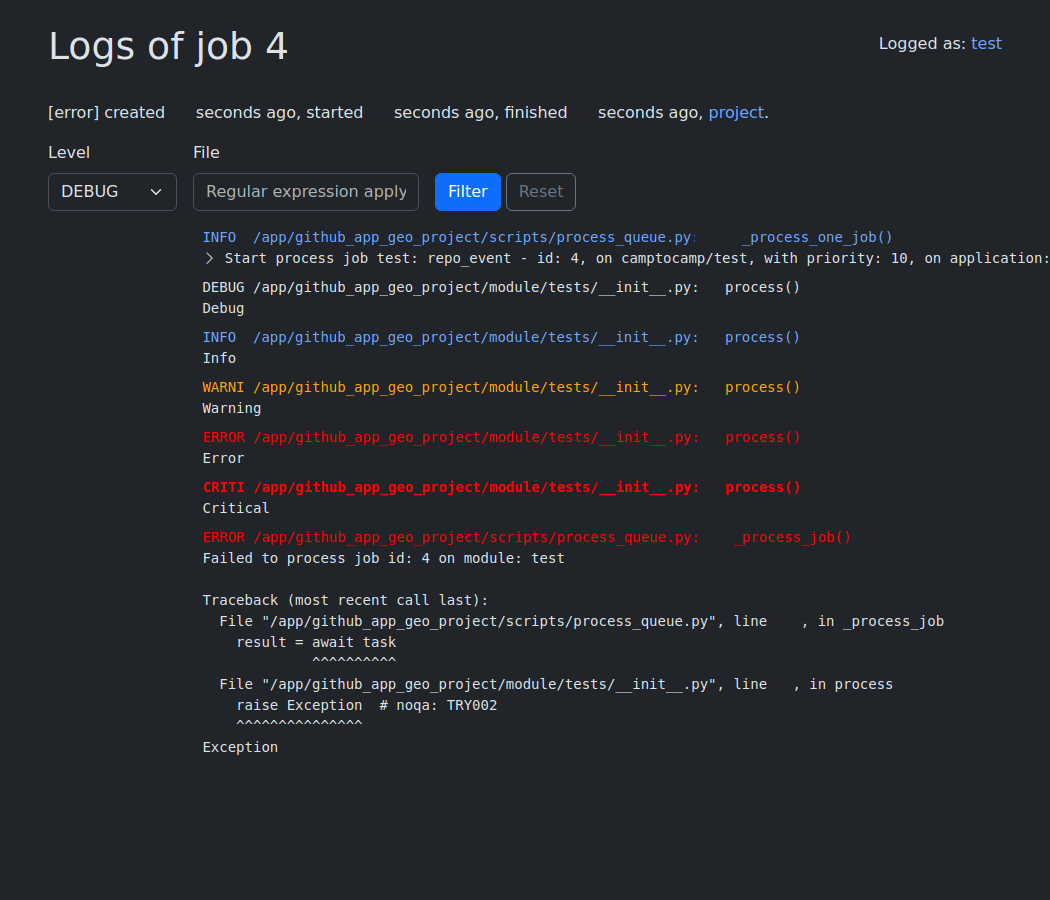
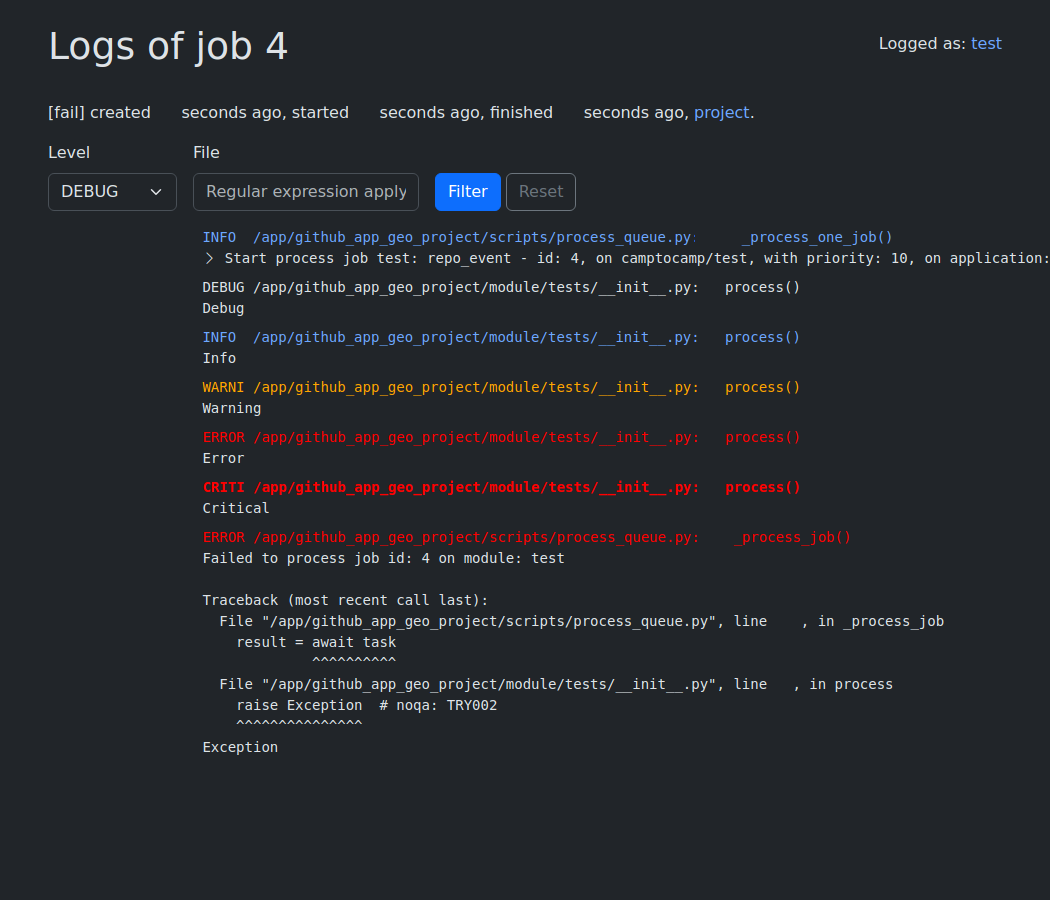
Add REPORT_ERROR and FAIL job statuses to differentiate check errors from job errors
Replace the single ERROR status with two distinct statuses:
- REPORT_ERROR for jobs that are checks reporting intentional failure
- FAIL for actual job/system failures

Add report_error flag to ProcessOutput so modules can indicate when
success=False is a check report rather than a real failure.

Changed region(s): [[0.3657, 0.0933, 0.7314, 0.1556], [0.1829, 0.0933, 0.3352, 0.1556], [0.061, 0.0933, 0.1524, 0.1556]]

diff --git a/github_app_geo_project/templates/jobs.html b/github_app_geo_project/templates/jobs.html
@@ -36,6 +36,9 @@ div.alert-secondary a[data-bs-toggle="tooltip"] {
 div.alert-warning a[data-bs-toggle="tooltip"] {
   color: var(--bs-warning-text-emphasis);
 }
+div.alert-warning a[data-bs-toggle="tooltip"] {
+  color: var(--bs-warning-text-emphasis);
+}
 div.alert-danger a[data-bs-toggle="tooltip"] {
   color: var(--bs-danger-text-emphasis);
 }
@@ -66,7 +69,9 @@ div.alert-danger a[data-bs-toggle="tooltip"] {
       <option value="">All</option>
       <option value="NEW" {% if status == 'NEW' %}selected{% endif %}>New</option>
       <option value="PENDING" {% if status == 'PENDING' %}selected{% endif %}>Pending</option>
-      <option value="ERROR" {% if status == 'ERROR' %}selected{% endif %}>Error</option>
+      <option value="REPORT_ERROR" {% if status == 'REPORT_ERROR' %}selected{% endif %}>Report Error</option>
+      <option value="FAIL" {% if status == 'FAIL' %}selected{% endif %}>Fail</option>
+      <option value="ERROR" {% if status == 'ERROR' %}selected{% endif %}>Error (legacy)</option>
       <option value="DONE" {% if status == 'DONE' %}selected{% endif %}>Done</option>
       <option value="SKIPPED" {% if status == 'SKIPPED' %}selected{% endif %}>Skipped</option>
     </select>
@@ -89,7 +94,9 @@ div.alert-danger a[data-bs-toggle="tooltip"] {
 </form>
 
 {% for job in jobs %}
-  {% if job.status_enum.value == 'error' %}
+  {% if job.status_enum.value == 'report_error' %}
+<div class="alert alert-warning event" role="alert">
+  {% elif job.status_enum.value in ['error', 'fail'] %}
 <div class="alert alert-danger event" role="alert">
   {% else %}
     {% if job.status_enum.value in ['new', 'pending'] %}

diff --git a/github_app_geo_project/scripts/process_queue.py b/github_app_geo_project/scripts/process_queue.py
@@ -539,7 +539,7 @@ async def _process_job(
                     )
 
             job.status_enum = (
-                models.JobStatus.DONE if result is None or result.success else models.JobStatus.ERROR
+                models.JobStatus.DONE if result is None or result.success else models.JobStatus.REPORT_ERROR
             )
             job.finished_at = datetime.datetime.now(tz=datetime.UTC)
 
@@ -581,7 +581,7 @@ async def _process_job(
             new_issue_data = result.dashboard if result is not None else None
             _LOGGER.debug("Job queue updated")
         except githubkit.exception.RequestFailed as exception:
-            job.status_enum = models.JobStatus.ERROR
+            job.status_enum = models.JobStatus.FAIL
             job.finished_at = datetime.datetime.now(tz=datetime.UTC)
             root_logger.addHandler(handler)
             try:
@@ -632,7 +632,7 @@ async def _process_job(
                         root_logger.removeHandler(handler)
                 raise
         except (subprocess.CalledProcessError, subprocess.TimeoutExpired) as proc_error:
-            job.status_enum = models.JobStatus.ERROR
+            job.status_enum = models.JobStatus.FAIL
             job.finished_at = datetime.datetime.now(tz=datetime.UTC)
 
             message = module_utils.AnsiProcessMessage(
@@ -675,7 +675,7 @@ async def _process_job(
                     )
             raise
         except Exception as exception:
-            job.status_enum = models.JobStatus.ERROR
+            job.status_enum = models.JobStatus.FAIL
             job.finished_at = datetime.datetime.now(tz=datetime.UTC)
             if not isinstance(exception, GHCIError):
                 root_logger.addHandler(handler)
@@ -995,7 +995,7 @@ async def _get_process_one_job(
                     models.Queue.status == models.JobStatus.PENDING.name,
                     models.Queue.started_at < error_threshold,
                 )
-                .values(status=models.JobStatus.ERROR.name),
+                .values(status=models.JobStatus.FAIL.name),
             )
             affected_rows = result.rowcount  # type: ignore[attr-defined]
             if affected_rows:
@@ -1120,11 +1120,11 @@ async def _process_one_job(
                     )
                     job.status_enum = models.JobStatus.DONE
                 else:
-                    job.status_enum = models.JobStatus.ERROR
+                    job.status_enum = models.JobStatus.FAIL
                 job.finished_at = datetime.datetime.now(tz=datetime.UTC)
             else:
                 _LOGGER.error("Unknown event name: %s", job.module_event_name)
-                job.status_enum = models.JobStatus.ERROR
+                job.status_enum = models.JobStatus.FAIL
                 job.finished_at = datetime.datetime.now(tz=datetime.UTC)
                 success = False
         else:
@@ -1155,7 +1155,7 @@ async def _process_one_job(
         await _flush_job_logs(log_session_factory, handler, job.id)
         if await session.run_sync(lambda _: job.status_enum == models.JobStatus.PENDING):
             _LOGGER.error("Job %s finished with pending status", job.id)
-            job.status_enum = models.JobStatus.ERROR
+            job.status_enum = models.JobStatus.FAIL
         job.finished_at = datetime.datetime.now(tz=datetime.UTC)
         _RUNNING_JOBS.pop(job.id)
         await session.commit()

diff --git a/github_app_geo_project/module/patch/__init__.py b/github_app_geo_project/module/patch/__init__.py
@@ -225,10 +225,8 @@ class Patch(module.Module[dict[str, Any], dict[str, Any], dict[str, Any], Any]):
                 else False
             )
         else:
-            return module.ProcessOutput(
-                success=False,
-                check_output={"summary": f"Invalid event '{context.module_event_name}' for the Patch module"},
-            )
+            error_message = f"Invalid event '{context.module_event_name}' for the Patch module"
+            raise PatchError(error_message)
 
         if head_branch is None:
             _LOGGER.error("workflow event head_branch is None; cannot apply patch.")
@@ -342,12 +340,8 @@ class Patch(module.Module[dict[str, Any], dict[str, Any], dict[str, Any], Any]):
                     if proc.returncode != 0:
                         message.title = "Failed to push the changes"
                         _LOGGER.warning(message)
-                        return module.ProcessOutput(
-                            success=False,
-                            check_output={
-                                "summary": f"Failed to push the changes{format_process_bytes(stdout, stderr)}",
-                            },
-                        )
+                        error_message = f"Failed to push the changes{format_process_bytes(stdout, stderr)}"
+                        raise PatchError(error_message)
                     message.title = "Pushed the changes"
                     _LOGGER.debug(message)
         else:

diff --git a/github_app_geo_project/module/backport/__init__.py b/github_app_geo_project/module/backport/__init__.py
@@ -193,13 +193,8 @@ class Backport(
                     if exception.response.status_code == 404:
                         return module.ProcessOutput()
                     _LOGGER.exception("Error while getting BACKPORT_TODO file")
-                    return module.ProcessOutput(
-                        success=False,
-                        check_output={
-                            "summary": "BACKPORT_TODO error",
-                            "text": "Error while getting BACKPORT_TODO file",
-                        },
-                    )
+                    error_message = "Error while getting BACKPORT_TODO file"
+                    raise module.GHCIError(error_message) from exception
         elif context.module_event_data.type == "SECURITY.md":
             has_security_md = True
             branch = context.module_event_data.branch

diff --git a/github_app_geo_project/views/logs.py b/github_app_geo_project/views/logs.py
@@ -111,7 +111,8 @@ async def logs_view(
                 "reload": job.status_enum in [models.JobStatus.NEW, models.JobStatus.PENDING],
                 "favicon_postfix": (
                     "red"
-                    if job.status_enum == models.JobStatus.ERROR
+                    if job.status_enum
+                    in [models.JobStatus.ERROR, models.JobStatus.FAIL, models.JobStatus.REPORT_ERROR]
                     else ("green" if job.status_enum == models.JobStatus.DONE else "blue")
                 ),
             }

diff --git a/github_app_geo_project/models.py b/github_app_geo_project/models.py
@@ -26,7 +26,9 @@ class JobStatus(enum.Enum):
 
     NEW = "new"
     PENDING = "pending"
-    ERROR = "error"
+    ERROR = "error"  # Legacy: kept for backward compatibility with existing DB records, use FAIL instead
+    FAIL = "fail"
+    REPORT_ERROR = "report_error"
     DONE = "done"
     SKIPPED = "skipped"
 
